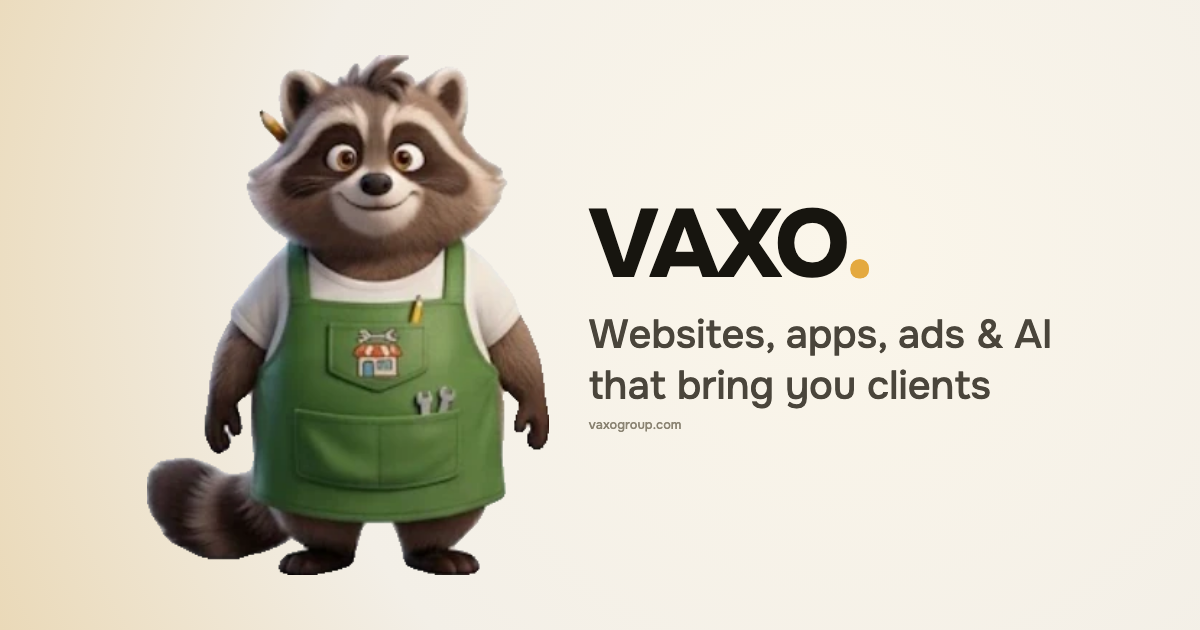
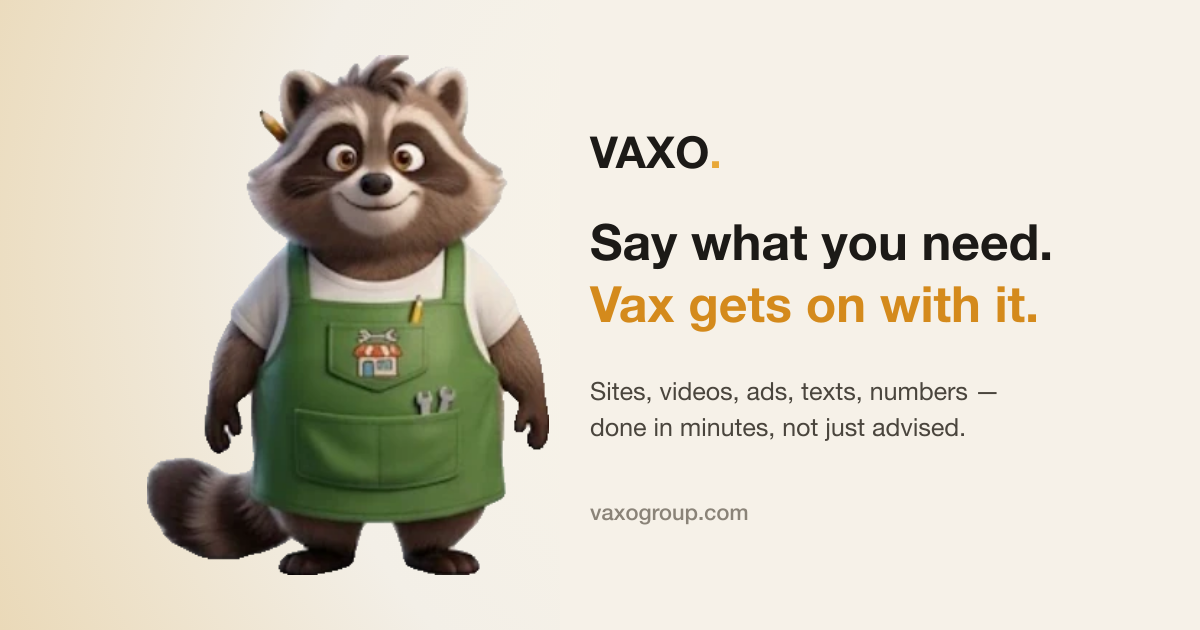
Link previews per language with current headline (og-en/ru/ua)

Changed region(s): [[0.4933, 0.3317, 0.8942, 0.6937], [0.4933, 0.7841, 0.6167, 0.8444], [0.4933, 0.2111, 0.6167, 0.2714]]

diff --git a/tests/e2e/pages.spec.ts b/tests/e2e/pages.spec.ts
@@ -50,7 +50,7 @@ test.fixme('SEO metadata on /ru/', async ({ page }) => {
   const alts = await page.locator('link[rel=alternate]').evaluateAll((ls) => ls.map((l) => `${l.getAttribute('hreflang')} ${l.getAttribute('href')}`));
   expect(alts).toEqual([`en ${site}/`, `uk ${site}/ua/`, `ru ${site}/ru/`, `x-default ${site}/`]);
   await expect(page.locator('meta[property="og:locale"]')).toHaveAttribute('content', 'ru_RU');
-  await expect(page.locator('meta[property="og:image"]')).toHaveAttribute('content', `${site}/og-image.png`);
+  await expect(page.locator('meta[property="og:image"]')).toHaveAttribute('content', `${site}/og-ru.png`);
   const ld = JSON.parse((await page.locator('script[type="application/ld+json"]').textContent())!);
   expect(ld['@type']).toBe('ProfessionalService');
 });

diff --git a/README.md b/README.md
@@ -18,7 +18,7 @@ npm run dev        # http://localhost:4321
 | `npm test` | юнит-тесты (валидация, отправка заявок) |
 | `npm run e2e` | браузерные тесты (нужен `npm run build`) |
 | `npm run visual` | скриншоты «макет vs сайт» в `tests/visual/out/` (нужен запущенный `npm run preview`) |
-| `npm run og` | перегенерировать `public/og-image.png` |
+| `node scripts/make-og-lang.cjs` | превью ссылок `public/og-{en,ru,ua}.png` (текст внутри скрипта) |
 
 ## Где что лежит
 
